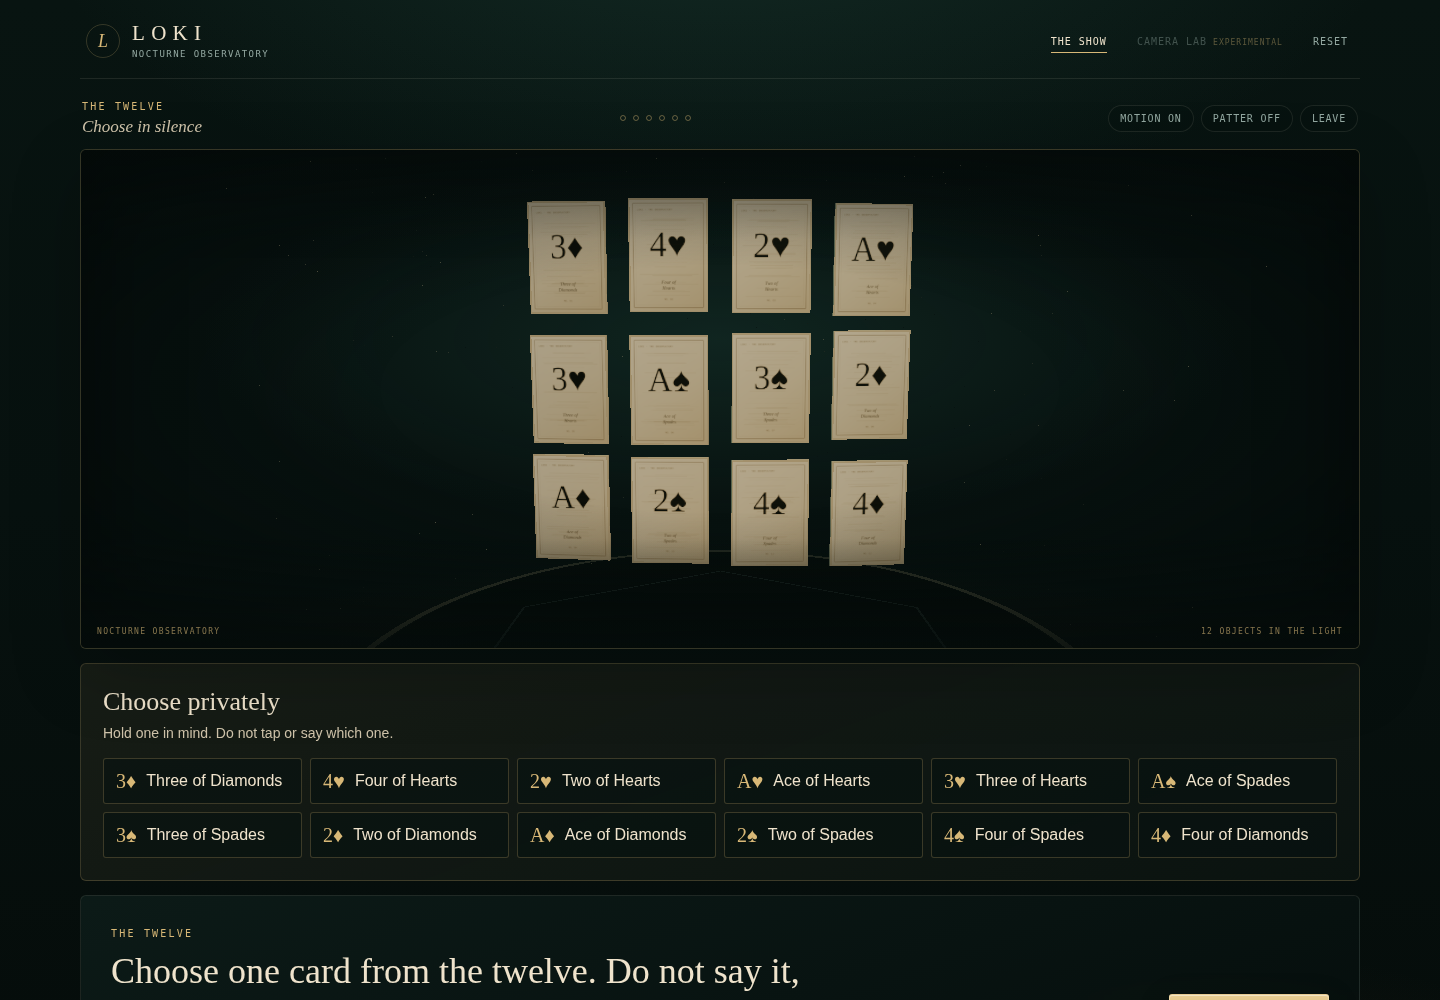
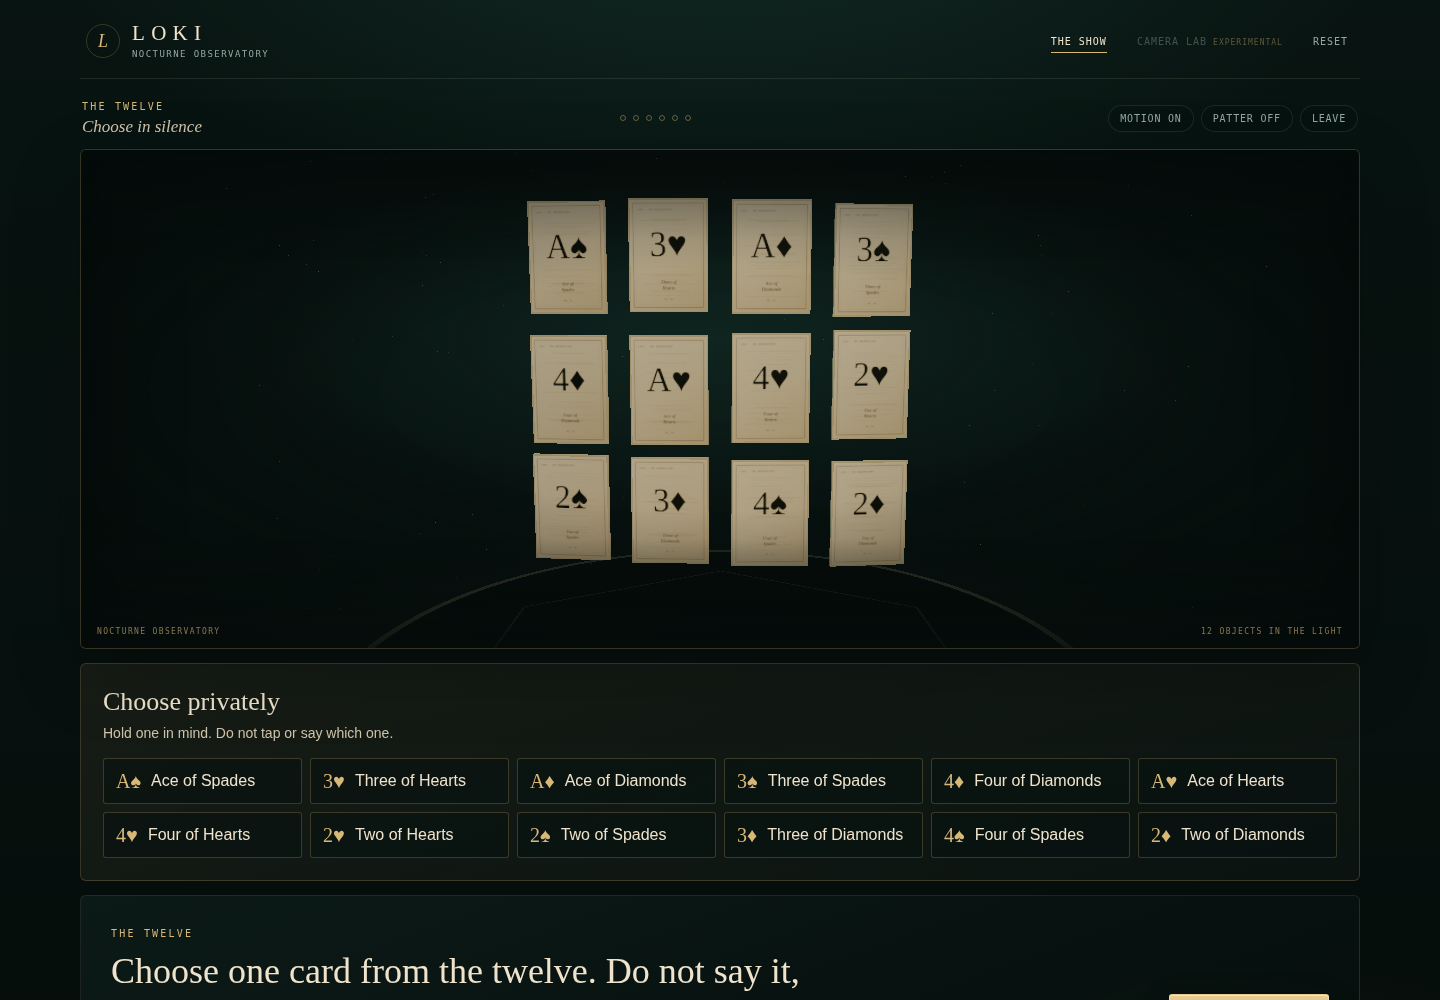
fix(performer): light the target only at the resting reveal cue; recap keeps answers with their questions

diff --git a/apps/web/src/components/Performance.tsx b/apps/web/src/components/Performance.tsx
@@ -56,6 +56,7 @@ export function Performance({
   const { view, error, advance, answer, restart } = usePerformance(effect);
   const [displayLine, setDisplayLine] = useState("");
   const [cueIndex, setCueIndex] = useState(0);
+  const [indexKey, setIndexKey] = useState("");
   const [patterSource, setPatterSource] = useState<"template" | "llm">("template");
   const primaryRef = useRef<HTMLButtonElement>(null);
   const actionsRef = useRef<HTMLDivElement>(null);
@@ -64,7 +65,10 @@ export function Performance({
   const cues = view?.cues ?? [];
   const cueKey = cues.map((c) => c.id).join("|");
   const lastCue = Math.max(0, cues.length - 1);
-  const cuePending = cueIndex < lastCue;
+  // The index only counts for the cue set it was recorded against; for the first render of a new
+  // set (before the effect below runs) the sequence is at its start, so nothing flashes early.
+  const effectiveIndex = indexKey === cueKey ? cueIndex : reducedMotion ? lastCue : 0;
+  const cuePending = effectiveIndex < lastCue;
   const cuePendingRef = useRef(false);
   const lastCueRef = useRef(0);
   cuePendingRef.current = cuePending;
@@ -72,6 +76,7 @@ export function Performance({
 
   useEffect(() => {
     setCueIndex(reducedMotion ? lastCue : 0);
+    setIndexKey(cueKey);
     if (reducedMotion || lastCue === 0) return;
     let index = 0;
     let timer = 0;
@@ -177,6 +182,9 @@ export function Performance({
     );
   }
 
+  // The target is lit only when the resting reveal cue is on screen, never during the hush beats.
+  const stageView: SessionView =
+    view.reveal && view.phase === "reveal" && cuePending ? { ...view, reveal: undefined } : view;
   const isProbe = view.phase === "probe" && view.options;
   const isEnd = view.phase === "afterglow" || view.phase === "done";
   const canContinue = view.canAdvance && !isProbe && !isEnd;
@@ -221,9 +229,9 @@ export function Performance({
         </div>
       </section>
 
-      <section className="stage-shell" aria-label={`${view.stage.title} stage`}>
+      <section className="stage-shell" aria-label={`${view.stage.title} stage`} data-target-lit={stageView.reveal ? "true" : "false"}>
         <div className="stage-vignette" />
-        <Stage effect={effect} view={view} reducedMotion={reducedMotion} />
+        <Stage effect={effect} view={stageView} reducedMotion={reducedMotion} />
         <div className="stage-caption" aria-hidden="true">
           <span>NOCTURNE OBSERVATORY</span>
           <span>{view.stage.items.length} OBJECTS IN THE LIGHT</span>
@@ -254,7 +262,7 @@ export function Performance({
         <div className="panel-copy">
           <p className="eyebrow">{view.stage.title}</p>
           <p id="line-heading" ref={lineRef} className="line" aria-live="polite">
-            {cuePending ? cues[cueIndex]?.line : displayLine}
+            {cuePending ? cues[effectiveIndex]?.line : displayLine}
           </p>
           {reducedMotion && cues.length > 1 && (
             <ul className="cue-trail" aria-label="Earlier lines of this moment">

diff --git a/tests/e2e/performer-flow.spec.ts b/tests/e2e/performer-flow.spec.ts
@@ -69,3 +69,49 @@ test("flow: focus follows the moment and is restored when leaving", async ({ pag
   await expect(page.getByRole("button", { name: "Enter the observatory" })).toBeVisible();
   await expect.poll(() => page.evaluate(() => document.activeElement?.id)).toBe("main");
 });
+
+async function reachRevealOrMiss(page: Page, tries = 8): Promise<"reveal" | "miss"> {
+  for (let t = 0; t < tries; t++) {
+    await playToPayoff(page);
+    const rv = page.getByRole("button", { name: "Reveal it" });
+    await expect(rv.or(page.locator(".panel-miss"))).toBeVisible({ timeout: 10000 });
+    if (await rv.isVisible()) {
+      // Build beat: the target must not be lit.
+      await expect(page.locator(".stage-shell")).toHaveAttribute("data-target-lit", "false");
+      await rv.click();
+      return "reveal";
+    }
+    return "miss";
+  }
+  return "miss";
+}
+
+for (const effectName of ["The Twelve", "Ember Words"] as const) {
+  test(`flow: ${effectName} target is not lit during the hush beats, only at the resting reveal line`, async ({ page }) => {
+    await page.goto("/");
+    await page.getByText("I understand this is a", { exact: false }).click();
+    if (effectName === "Ember Words") await page.getByText("Ember Words", { exact: true }).click();
+    await page.getByRole("button", { name: "Enter the observatory" }).click();
+    await page.getByRole("button", { name: "I have chosen" }).click();
+    // Always answer option 1 until a payoff appears; retry from a fresh show if it is a miss.
+    for (let attempt = 0; attempt < 6; attempt++) {
+      const outcome = await reachRevealOrMiss(page);
+      if (outcome === "miss") {
+        await expect(page.locator(".stage-shell")).toHaveAttribute("data-target-lit", "false");
+        await page.getByRole("button", { name: "Skip ahead" }).click().catch(() => undefined);
+        await page.getByRole("button", { name: "Continue" }).click();
+        await page.getByRole("button", { name: "Begin again" }).click();
+        await page.getByRole("button", { name: "I have chosen" }).click();
+        continue;
+      }
+      // Hush beats: line is a hush cue, target must stay dark.
+      const hush = page.locator("#line-heading");
+      await expect(hush).toContainText(/quiet|say it now/i);
+      await expect(page.locator(".stage-shell")).toHaveAttribute("data-target-lit", "false");
+      await page.getByRole("button", { name: "Skip ahead" }).first().click();
+      await expect(page.locator(".stage-shell")).toHaveAttribute("data-target-lit", "true");
+      return;
+    }
+    test.skip(true, "no reveal reached in 6 option-1 runs; miss path asserted dark");
+  });
+}

diff --git a/packages/showrunner/src/session.ts b/packages/showrunner/src/session.ts
@@ -143,6 +143,7 @@ export class PerformanceSession {
   private startedAt: number;
   private performer: Performer;
   private pickedLabels: string[] = [];
+  private pickedPairs: Array<{ label: string; prompt: string }> = [];
   private ackCue: Cue | null = null;
   private phaseCues: Cue[] | null = null;
   private nowFn: () => number;
@@ -258,6 +259,7 @@ export class PerformanceSession {
     const pickedLabel = this.promptProbe.options.find((o) => o.id === optionId)?.label;
     if (pickedLabel) {
       this.pickedLabels.push(pickedLabel);
+      this.pickedPairs.push({ label: pickedLabel, prompt: this.promptProbe.prompt });
       this.ackCue = this.performer.acknowledge(pickedLabel);
     }
     this.promptProbe = null;
@@ -501,7 +503,7 @@ export class PerformanceSession {
     const template = lines[this.answered % Math.max(1, lines.length)] ?? "It is becoming clear.";
     this.line = sanitizeLine(template.replace(/\{n\}/g, String(this.answered)), "It is becoming clear.");
     this.ackCue = null;
-    this.phaseCues = this.performer.buildSequence(this.performer.recap(this.pickedLabels), this.line);
+    this.phaseCues = this.performer.buildSequence(this.performer.recapAnswers(this.pickedPairs), this.line);
   }
 
   private doReveal(): void {

diff --git a/packages/showrunner/src/performer.ts b/packages/showrunner/src/performer.ts
@@ -106,6 +106,24 @@ export class Performer {
     };
   }
 
+  /**
+   * Thought echo that keeps each answer attached to the question it answered, newest last.
+   * Uses only text the person already saw and chose. Falls back to the label-only recap when the
+   * pairs do not fit the line limit.
+   */
+  recapAnswers(pairs: Array<{ label: string; prompt: string }>): Cue {
+    const clean = pairs
+      .map((p) => ({ label: p.label.replace(/[{}]/g, "").trim(), prompt: p.prompt.replace(/[{}"]/g, "").replace(/\s+/g, " ").trim() }))
+      .filter((p) => p.label);
+    for (let take = Math.min(3, clean.length); take >= 1; take--) {
+      const parts = clean.slice(-take).map((p) => (p.prompt ? `${p.label} to "${p.prompt}"` : p.label));
+      const line = `${take < clean.length ? "Lately you said" : "You said"} ${joinLabels(parts)}. All of it was yours.`;
+      const safe = sanitizeLine(line, "");
+      if (safe) return { id: this.nextId("recap"), kind: "recap", line: safe, holdMs: RECAP_HOLD_MS };
+    }
+    return this.recap(clean.map((p) => p.label));
+  }
+
   /** Reveal: two quiet beats, then the effect's own reveal line, which rests. */
   revealSequence(revealLine: string): Cue[] {
     return [

diff --git a/docs/performer-acceptance-2026-10-28.md b/docs/performer-acceptance-2026-10-28.md
@@ -48,7 +48,8 @@ Simulation shows the engine behaves. It says nothing about experience. Experienc
 ## Implementation status and evidence (updated 2026-10-29)
 Mechanical, tested in `tests/performer.test.ts`, `tests/performer-extra.test.ts`, `tests/e2e/performer*.spec.ts`:
 - P1/P2 acknowledgement echoes the chosen label; repeated label gets its own phrasing; no identical consecutive acknowledgements across 200 seeds.
-- P3 recap lists the person's own labels in order.
+- P3 recap keeps each of the person's own answers attached to the question it answered (last three), labels in order; label-only recap is the fallback.
+- P11 visual: the target is lit only when the resting reveal line is on screen, never during build or the hush beats (`data-target-lit` on the stage, e2e for The Twelve and Ember Words; verified to fail when the gate is removed). With reduced motion all cues show at once, so the target lights with the reveal.
 - P4/P5 reveal has 3 cues, honest miss has 2, last cue rests; miss text names no hypothesis.
 - P6 source scan plus runs on card and Ember Words through the same session.
 - P7 reduced motion shows cues without timers and keeps earlier lines readable; Skip ahead is present while a pause is pending.
